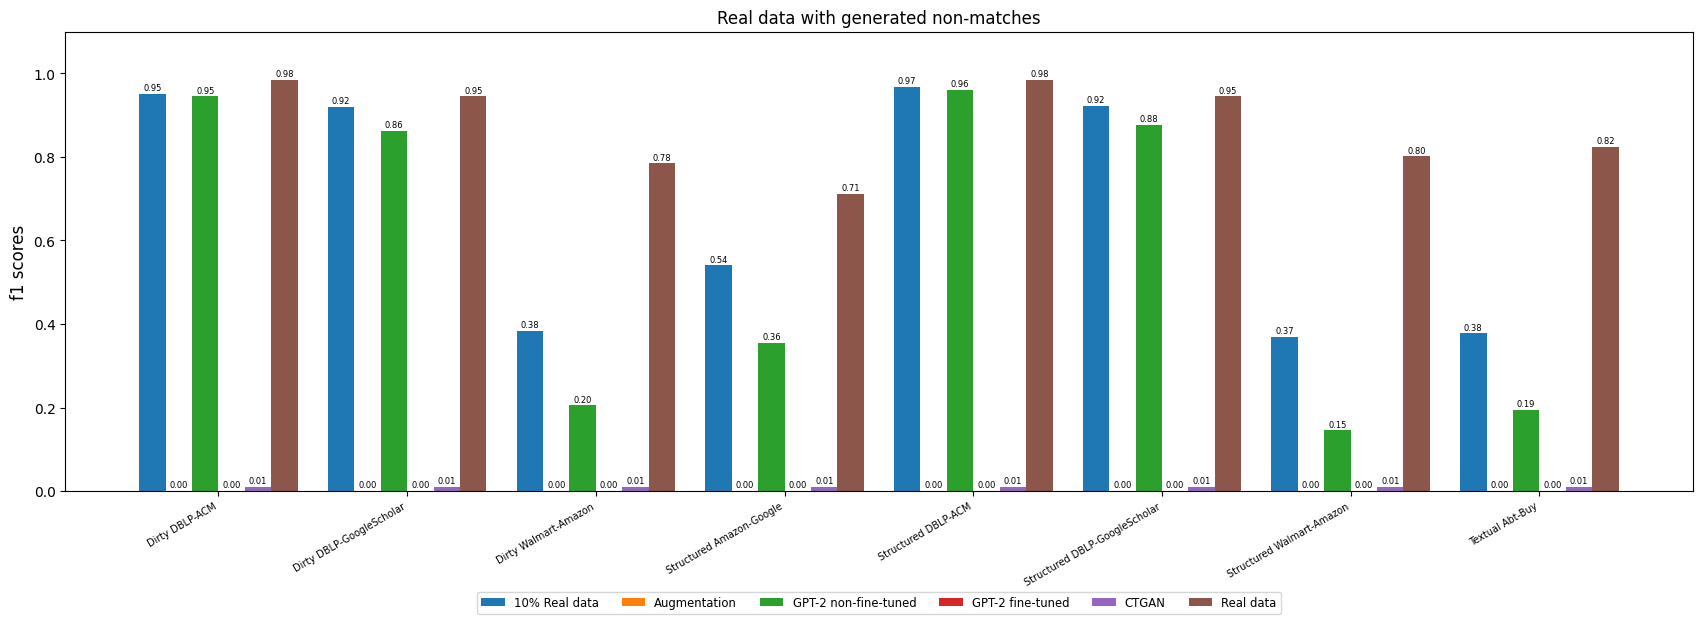
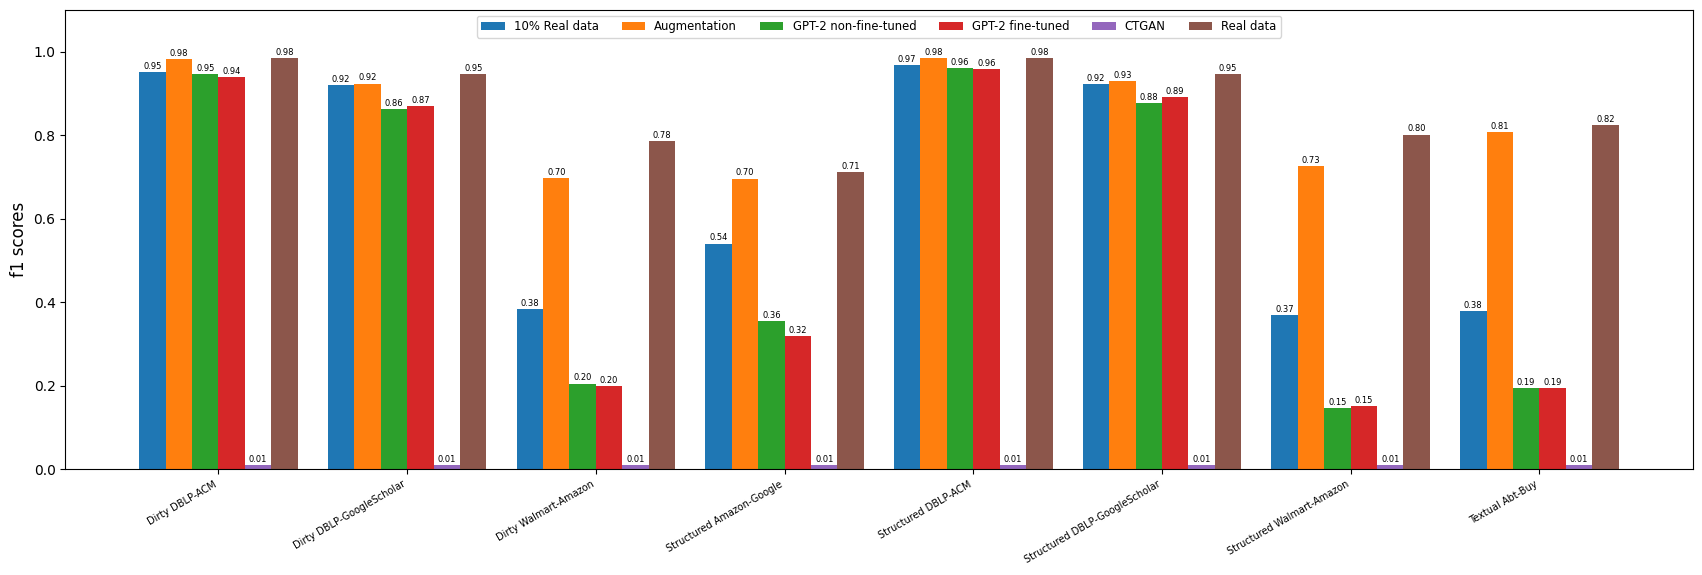
Graph maker changes + new graphs

diff --git a/ditto/Writer_output/graph_maker.py b/ditto/Writer_output/graph_maker.py
@@ -69,7 +69,6 @@ def make_plot(plot_type, title, decimated=True):
 
     # Labels and titles
     ax.set_ylabel('f1 scores', fontsize=12)
-    ax.set_title(title)
     
     # Limiting the y-axis
     ax.set_ylim([0, 1.1])
@@ -103,7 +102,7 @@ def make_plot(plot_type, title, decimated=True):
         ax.bar_label(baseline_rects, padding=1, fmt="%.2f", fontsize=6)
 
         # Legend
-        ax.legend(bbox_to_anchor =(0.5,-0.28), loc='lower center', fontsize='small', ncol=6)
+        ax.legend(loc='upper center', fontsize='small', ncol=6)
     else:
         # Drawing the columns
         width = 0.15    # Width has to be slightly smaller than (1/num_columns) to make space between datasets)
@@ -116,12 +115,13 @@ def make_plot(plot_type, title, decimated=True):
         ctgan_rects =           ax.bar(x + 2*width, ctgan, width, label='CTGAN')
 
         # The values of each of the columns shown above the columns for readability
-        ax.legend(bbox_to_anchor =(0.5,-0.28), loc='lower center', fontsize='small', ncol=5)
         ax.bar_label(baseline_rects, padding=1, fmt="%.2f", fontsize=6)
         ax.bar_label(augmentation_rects, padding=1, fmt="%.2f", fontsize=6)
         ax.bar_label(gpt2_nft_rects, padding=1, fmt="%.2f", fontsize=6)
         ax.bar_label(gpt2_ft_rects, padding=1, fmt="%.2f", fontsize=6)
         ax.bar_label(ctgan_rects, padding=1, fmt="%.2f", fontsize=6)
+
+        ax.legend(loc='upper center', fontsize='small', ncol=5)
 
     # Saving the plot to the Xfigures forled (Called Xfigures to appear at the end of the work tree)
     name = f"Xfigures/{plot_type}"
